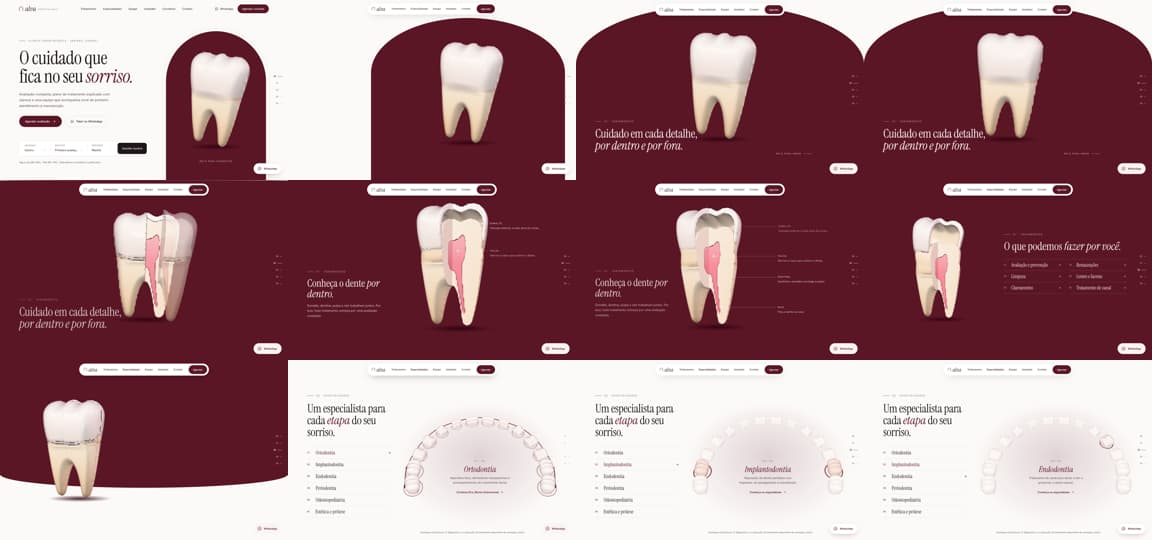
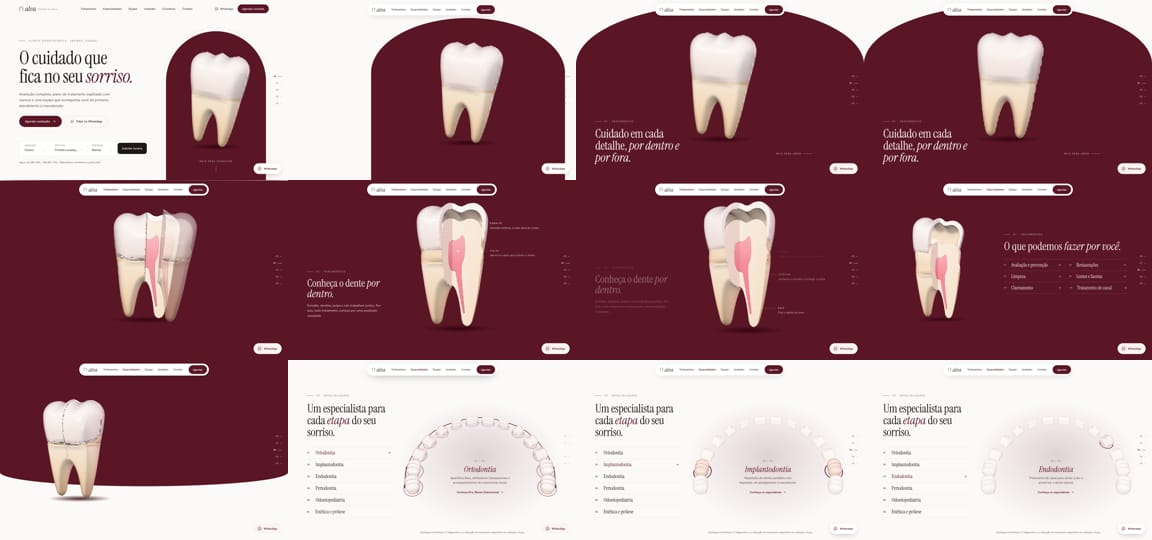
QA e documentação do refino visual
Claude-Session: https://claude.ai/code/session_01YAz5CFvnbJwfjzGASJzWL1

diff --git a/QA.md b/QA.md
@@ -3,6 +3,59 @@
 Execução registrada em 16/10/2026, nesta branch, no ambiente de nuvem do Claude Code
 (Linux, Chromium 141 do Playwright 1.64, **WebGL por software — SwiftShader**, sem GPU).
 
+## Refino visual — sobreposições e nitidez (17/10/2026)
+Investigado no build idêntico ao publicado (`3d326ea`) e no corrigido, em 390 × 844, 768 × 1024,
+1024 × 768, 1280 × 800 e 1440 × 900.
+
+**Sobreposições** — `scripts/qa/overlap-audit.mjs` projeta o que está visível do dente (ou de
+cada dente da arcada) na tela e cruza com as linhas reais de texto visíveis, além de procurar
+textos sobrepostos, texto sob o cabeçalho e invasão da margem lateral.
+
+| Causa | Onde | Correção |
+|---|---|---|
+| Título do quadro A largo demais (42vw): a 2ª linha passava sob o dente centrado | 1280, 1440 | largura máx. 33vw / 500 px |
+| Texto do B ainda visível enquanto o dente atravessava a tela rumo ao C | todas as larguras de desktop | texto/legendas do B saem em 57%; o dente só se desloca a partir de 62%; o C entra em 71% |
+| Título A saindo tarde enquanto o dente crescia na órbita do B | 1024–1440 | saída em 13–19% |
+| Dente do B sobre o título do B | 1024 | âncora 43% / texto até 30vw (900–1239 px) |
+| Legendas "Polpa" e "Dentina" muito próximas: descrição de uma sobre o nome da outra | 390 | abaixo de 600 px só o nome (ligado ao modelo) |
+| Aviso "Destaques ilustrativos" sobre as especialidades 5 e 6 | 390 | área segura inferior maior |
+| WhatsApp flutuante sobre o arco e os campos do agendamento | desktop | sai de cena enquanto o formulário (que já tem botão de WhatsApp) está na tela |
+
+Resultado: **26 achados → 0** (5 larguras × 28 pontos da timeline). As seções depois da
+sequência (Clínica, Equipe, Unidades, Galeria, Convênios, Valores, Depoimentos, Dúvidas,
+Agendamento, rodapé, cabeçalho e barras) foram percorridas tela a tela nas 5 larguras, sem
+conflitos.
+
+**Nitidez** — medido no navegador (tamanho na tela × resolução real do canvas):
+
+| Aparelho | Antes | Depois |
+|---|---|---|
+| iPhone 390 (DPR 3) | 585 × 1266 (1,5×, **metade da resolução**), sem antisserrilhado | 780 × 1688 (2×), MSAA 4× |
+| iPad 768 (DPR 2) | 1,5×, sem antisserrilhado | 2×, MSAA 4× |
+| Notebook Retina 1440 (DPR 2) | 2520 × 1575 (1,75×, esticado 14% por CSS) | 2880 × 1800 (2×), MSAA 4× |
+
+Outras causas: a geometria do celular era a mais grossa (célula 0,017, sem refino, porque o
+iPhone informa 4 núcleos e caía em "fraco") → agora 0,016 → 0,011 no worker; as bordas das faces
+de corte saíam em degraus da grade → o contorno é projetado na superfície exata
+(`tooth-builder.ts`); `will-change: transform` permanente nos textos da cena (texto suave no
+Safari) → removido. Imagens: cada foto recebe ≥ 1,1× os pixels necessários em DPR 2 e 3, exceto
+o arco grande de "A clínica" no desktop (0,96 por causa do recorte) → `sizes` corrigido.
+Antes × depois: `docs/qa/nitidez-iphone-antes-depois.jpg`, `docs/qa/nitidez-retina-antes-depois.jpg`.
+
+Custo: triângulos no quadro B do iPhone 36,7 mil → 88,9 mil; geração da malha +15% (no worker,
+fora da thread principal). Um governador baixa a resolução em degraus de 0,25× se os quadros
+passarem de ~28 ms durante a rolagem.
+
+**Testes:** `astro check` 0 erros; suíte completa **78 de 78** (16,9 min). Novos em
+`tests/e2e/visual-refino.spec.ts`: sem sobreposição em 21 pontos da sequência a 1440, 1024 e
+390; canvas = tamanho na tela × DPR (alvo 2×) com MSAA, também depois de girar (Retina e iPhone);
+fotos com ≥ 95% dos pixels necessários (390 DPR 3 e 1440 DPR 2); WhatsApp flutuante fora do
+formulário. Sequências atualizadas: `docs/qa/*-sequencia.jpg`.
+
+**Limitações:** validado em Chromium com GPU emulada por software; Safari/iPhone real ainda não
+(WebKit e o domínio da produção são bloqueados pela rede deste ambiente). Restam franjas finas
+na aresta do esmalte cortado e na linha cervical quando o dente está muito ampliado.
+
 ## Correção do scroll 3D (16/10/2026)
 Reproduzido no build idêntico ao publicado (mesmos arquivos com hash servidos pela Vercel no
 deploy `dpl_ADgMC8AxAfCwPs4J7ZNJen7McgNP`, commit `60c1ca9`) com `scripts/qa/probe-scroll.mjs`.

diff --git a/MOTION.md b/MOTION.md
@@ -31,8 +31,8 @@ Sem `tratamentos`, o hero vai direto à arcada; sem `especialidades`, a sequênc
 | Faixa | Câmera / objeto | Interface |
 |---|---|---|
 | 0–0,15 (A) | dente gira −20° → 0° | arco vira tela cheia (0,06–0,22) |
-| 0,15–0,55 (B) | órbita 0° → 35°, desce até −5°, distância 0,95; corte abre (0,17–0,41); esmalte sobe 0 → 0,105 (≈ 55 px); polpa brilha | título A sai; texto B entra (0,25); legendas uma a uma (0,32–0,52), presas ao modelo por projeção |
-| 0,55–1 (C) | enquadramento vai ao terço esquerdo; esmalte → 0,25 (≈ 130 px) e −8°; órbita 26°, elevação 3°; giro lento (ocioso) | legendas e texto B saem (0,60); lista entra da direita em sequência (0,68–0,86); CTA (0,88) |
+| 0,15–0,60 (B) | órbita 0° → 35°, desce até −5°, distância 0,95; corte abre (0,17–0,41); esmalte sobe 0 → 0,105 (≈ 55 px); polpa brilha | título A sai (0,13–0,19, antes de o dente crescer); texto B entra (0,25); legendas uma a uma (0,32–0,52), presas ao modelo por projeção; texto e legendas saem (0,57) |
+| 0,60–1 (C) | só depois que o texto B saiu: enquadramento vai ao terço esquerdo (0,62–0,80); esmalte → 0,25 (≈ 130 px) e −8°; órbita 26°, elevação 3°; giro lento (ocioso) | lista entra da direita em sequência (0,73–0,89); CTA (0,90) |
 
 **Especialidades**
 | Faixa | O que acontece |
@@ -56,9 +56,17 @@ A timeline é **a mesma** do desktop. `html.cine-compact` muda só:
 |---|---|---|
 | Rolagem por cena (`--cine-unit`) | 100vh | 72vh (trechos fixados mais curtos) |
 | Composição | âncoras e textos do artboard Main | hero do MobileHero; quadro A centrado no arco; B com o dente à esquerda e legendas à direita; C com o dente no canto superior direito e a lista (até 6 itens) abaixo; arcada sob o título, especialidades em 2 colunas |
-| Qualidade 3D | DPR ≤ 1,75, MSAA, geometria refinada | DPR ≤ 1,5, sem MSAA, geometria leve |
+| Qualidade 3D | DPR até 2, MSAA 4×, geometria 0,016 → 0,0095 | DPR até 2, MSAA 4×, geometria 0,016 → 0,011 |
 | Giro ocioso | 60 quadros/s | ~30 quadros/s |
-| Legendas do quadro B | saem em 60% | saem em 52% (antes de o dente atravessar a tela) |
+| Legendas do quadro B | nome + descrição | só o nome abaixo de 600 px (polpa e dentina ficam muito próximas) |
+
+**Nitidez.** O canvas é desenhado em até 2× a tela (telas 3× também ficam em 2×: diferença
+imperceptível, 2,25× menos pixels) com antisserrilhado 4×, e sempre no tamanho real em que
+aparece (redimensionar, girar, zoom do navegador ou trocar de monitor refazem o canvas — nunca
+é esticado por CSS). Um governador de resolução reduz 0,25× por vez (até 1,25× no celular e 1×
+no desktop) quando os quadros desenhados em sequência passam de ~28 ms. A geometria fina é
+gerada no worker; as faces de corte têm o contorno projetado sobre a superfície exata
+(`projectCutOutline`/`projectCutSurface` em `tooth-builder.ts`), sem degraus da grade.
 
 A altura do palco usa `vh` (viewport grande no iOS/Android): a barra de endereço aparecendo ou
 sumindo não refaz a trilha. O conteúdo do fundo respeita a faixa coberta pelas barras do

diff --git a/.claude/skills/visual-qa/SKILL.md b/.claude/skills/visual-qa/SKILL.md
@@ -13,6 +13,9 @@ description: Abre o site no navegador (Playwright + Chromium local), captura tel
 | `node scripts/qa/shot.mjs <url> <png> <w> <h> [scrollY] [full] [espera]` | Captura simples + erros de console. |
 | `node scripts/qa/scroll-states.mjs <url> <pasta> <w> <h> [frações…]` | Percorre a sequência 3D, espera o scrub alcançar e salva PNG + `estados.json` (câmera, corte, arco…). |
 | `node scripts/qa/element-shots.mjs <url> <pasta> <w> <h> "#sel:nome"…` | Rola até cada seção (dispara revelações) e captura o elemento. |
+| `node scripts/qa/overlap-audit.mjs <url> [json] [--shots=pasta]` | Sobreposição na sequência 3D em 390/768/1024/1280/1440: dente/arcada projetados × linhas de texto, texto × texto, cabeçalho e margem. Deve terminar com "Total de achados: 0". |
+| `node scripts/qa/sections-shots.mjs <url> <pasta>` | Telas reais (como o visitante vê) das seções depois da sequência, nas 5 larguras. |
+| `node scripts/qa/cinema-frames.mjs <url> <pasta> <w> <h> [--mobile]` | Quadros da sequência por tempo da timeline. |
 | `npx playwright test tests/visual` | Renderiza os artboards (`tests/visual/dc-render.ts`), captura o site no estado equivalente, gera lado a lado + diferença e verifica métricas de layout. |
 
 ## Roteiro de QA
